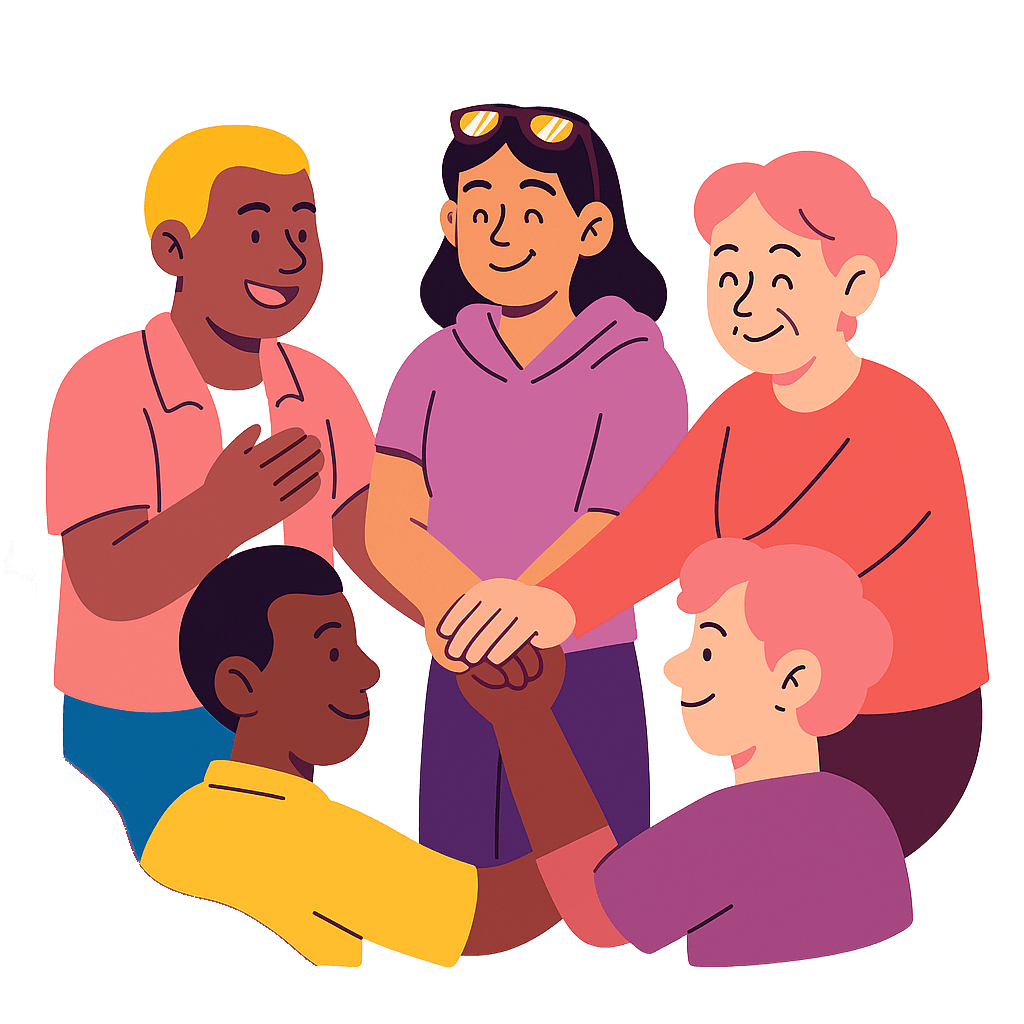
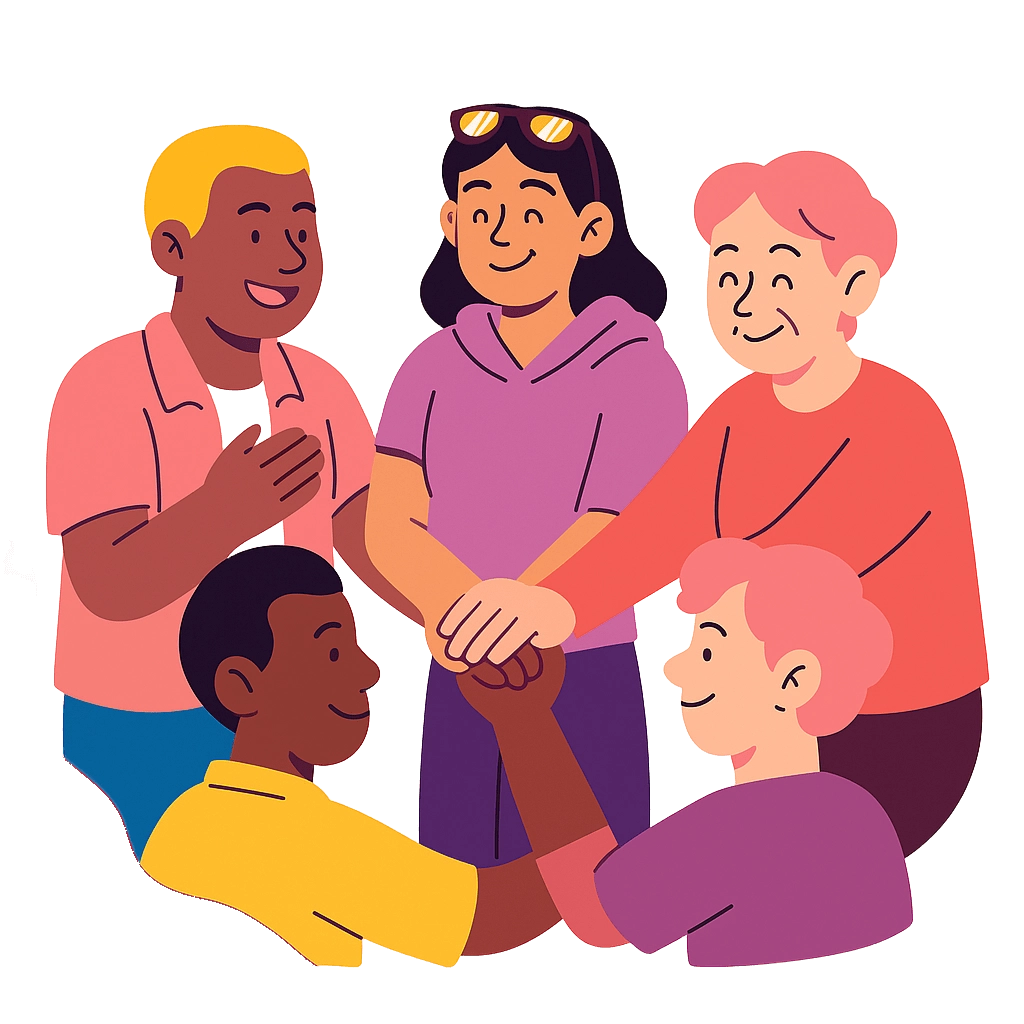
img optimizado

diff --git a/index.html b/index.html
@@ -60,7 +60,7 @@
     <!-- Portada -->
     <section id="portada" class="Portada">
         <img id="portada1" src="./src/public/img/Portada/Respeto.webp" alt="">
-        <img id="portada2" src="./src/public/img/Portada/Justicia.png" alt="">
+        <img id="portada2" src="./src/public/img/Portada/Justicia.webp" alt="">
 
         <h1 class="Titulo">Comisión Internacional de Derechos Humanos Región Noreste</h1>
 
@@ -106,18 +106,18 @@
         <div class="galeria">
             <div class="item" id="card1">
                 <h1>Asesoramiento</h1>
-                <img src="./src/public/img/cards/derechos.jpg" alt="">
+                <img src="./src/public/img/cards/derechos.webp" alt="">
                 <p>Tus derechos no se piden ni se negocian: se respetan. Nadie puede negártelos ni quitártelos.</p>
             </div>
 
             <div class="item" id="card2">
                 <h1>Asistencia infantil</h1>
-                <img src="./src/public/img/cards/niños.jpg" alt="">
+                <img src="./src/public/img/cards/niños.webp" alt="">
                 <p>Todos los niños y niñas tienen derechos. Nadie puede quitártelos ni hacerte sentir menos.</p>
             </div>
             <div class="item" id="card3">
                 <h1>Salud digna</h1>
-                <img src="./src/public/img/cards/salud.jpg" alt="">
+                <img src="./src/public/img/cards/salud.webp" alt="">
                 <p>Tienes derecho a sentirte bien, a ser cuidado y a recibir atención médica cuando lo necesites.</p>
             </div> 
         </div>
@@ -144,7 +144,7 @@
                     <h2 class="titulo">Guadalupe Pride</h2>
                 </div>
                 <div class="contenido-nota">
-                    <img src="./src/public/img/historias/h1.jpg" alt="">
+                    <img src="./src/public/img/historias/h1.webp" alt="">
                     <p>En apoyo por los derechos de toda la comunidad, con orgullo festejamos el día <span>Pride</span>.
                     </p>
 
@@ -161,7 +161,7 @@
                     <h2 class="titulo">Toma de protesta</h2>
                 </div>
                 <div class="contenido-nota">
-                    <img src="./src/public/img/historias/h2.jpg" alt="">
+                    <img src="./src/public/img/historias/h2.webp" alt="">
                     <p>En crecimiento y fortalecimiento de la comisión, se realizó toma de protesta de nuevos miembros
                         del equipo.
                     </p>
@@ -185,7 +185,7 @@
         <div class="container">
             <div class="item">
                 <div class="datos">
-                    <img class="local" src="./src/public/img/lugar.jpg" alt="">
+                    <img class="local" src="./src/public/img/lugar.webp" alt="">
 
                     <h3>Comisión Internacional de Derechos Humanos Región Noreste </h3>
                     <h4>Sede Guadalupe</h4>
